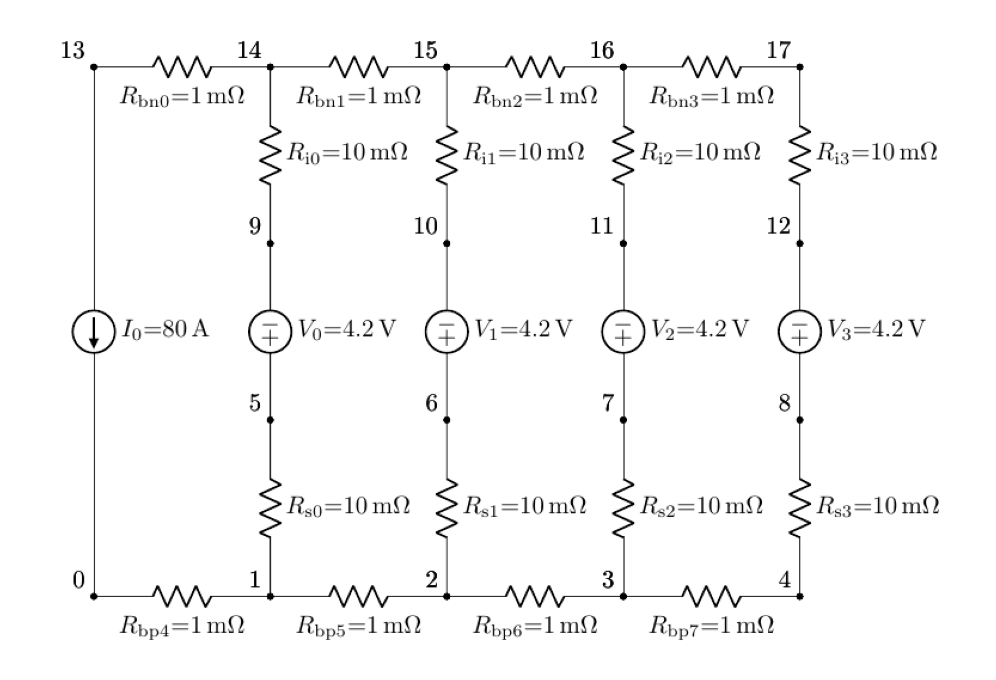
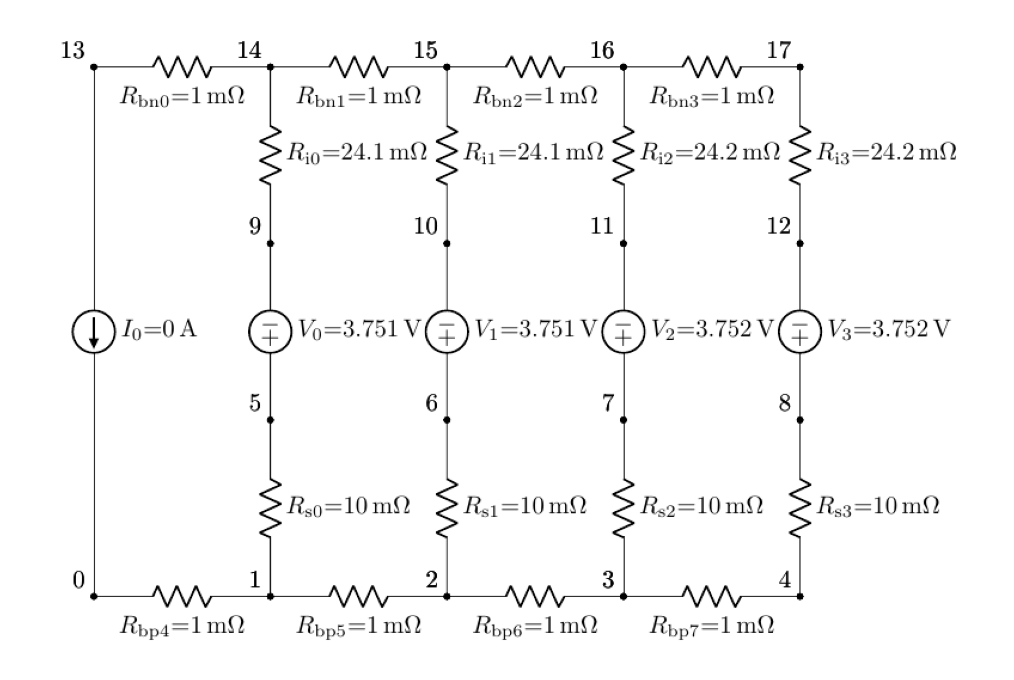
update circuit diagram

diff --git a/paper.md b/paper.md
@@ -89,9 +89,6 @@ import pybamm
 # Generate the netlist
 netlist = lp.setup_circuit(Np=4, Ns=1, Rb=1e-3, Rc=1e-2)
 
-# Draw the circuit
-lp.draw_circuit(netlist, cpt_size=1.0, dpi=150, node_spacing=2.5)
-
 # Define some additional variables to output
 output_variables = [
     'X-averaged negative particle surface concentration [mol.m-3]',
@@ -119,6 +116,9 @@ output = lp.solve(netlist=netlist,
 
 # Display the results
 lp.plot_output(output)
+
+# Draw the circuit at final state
+lp.draw_circuit(netlist, cpt_size=1.0, dpi=150, node_spacing=2.5)
 ```
 
 Single dollars ($) are required for inline mathematics e.g. $f(x) = e^{\pi/x}$
